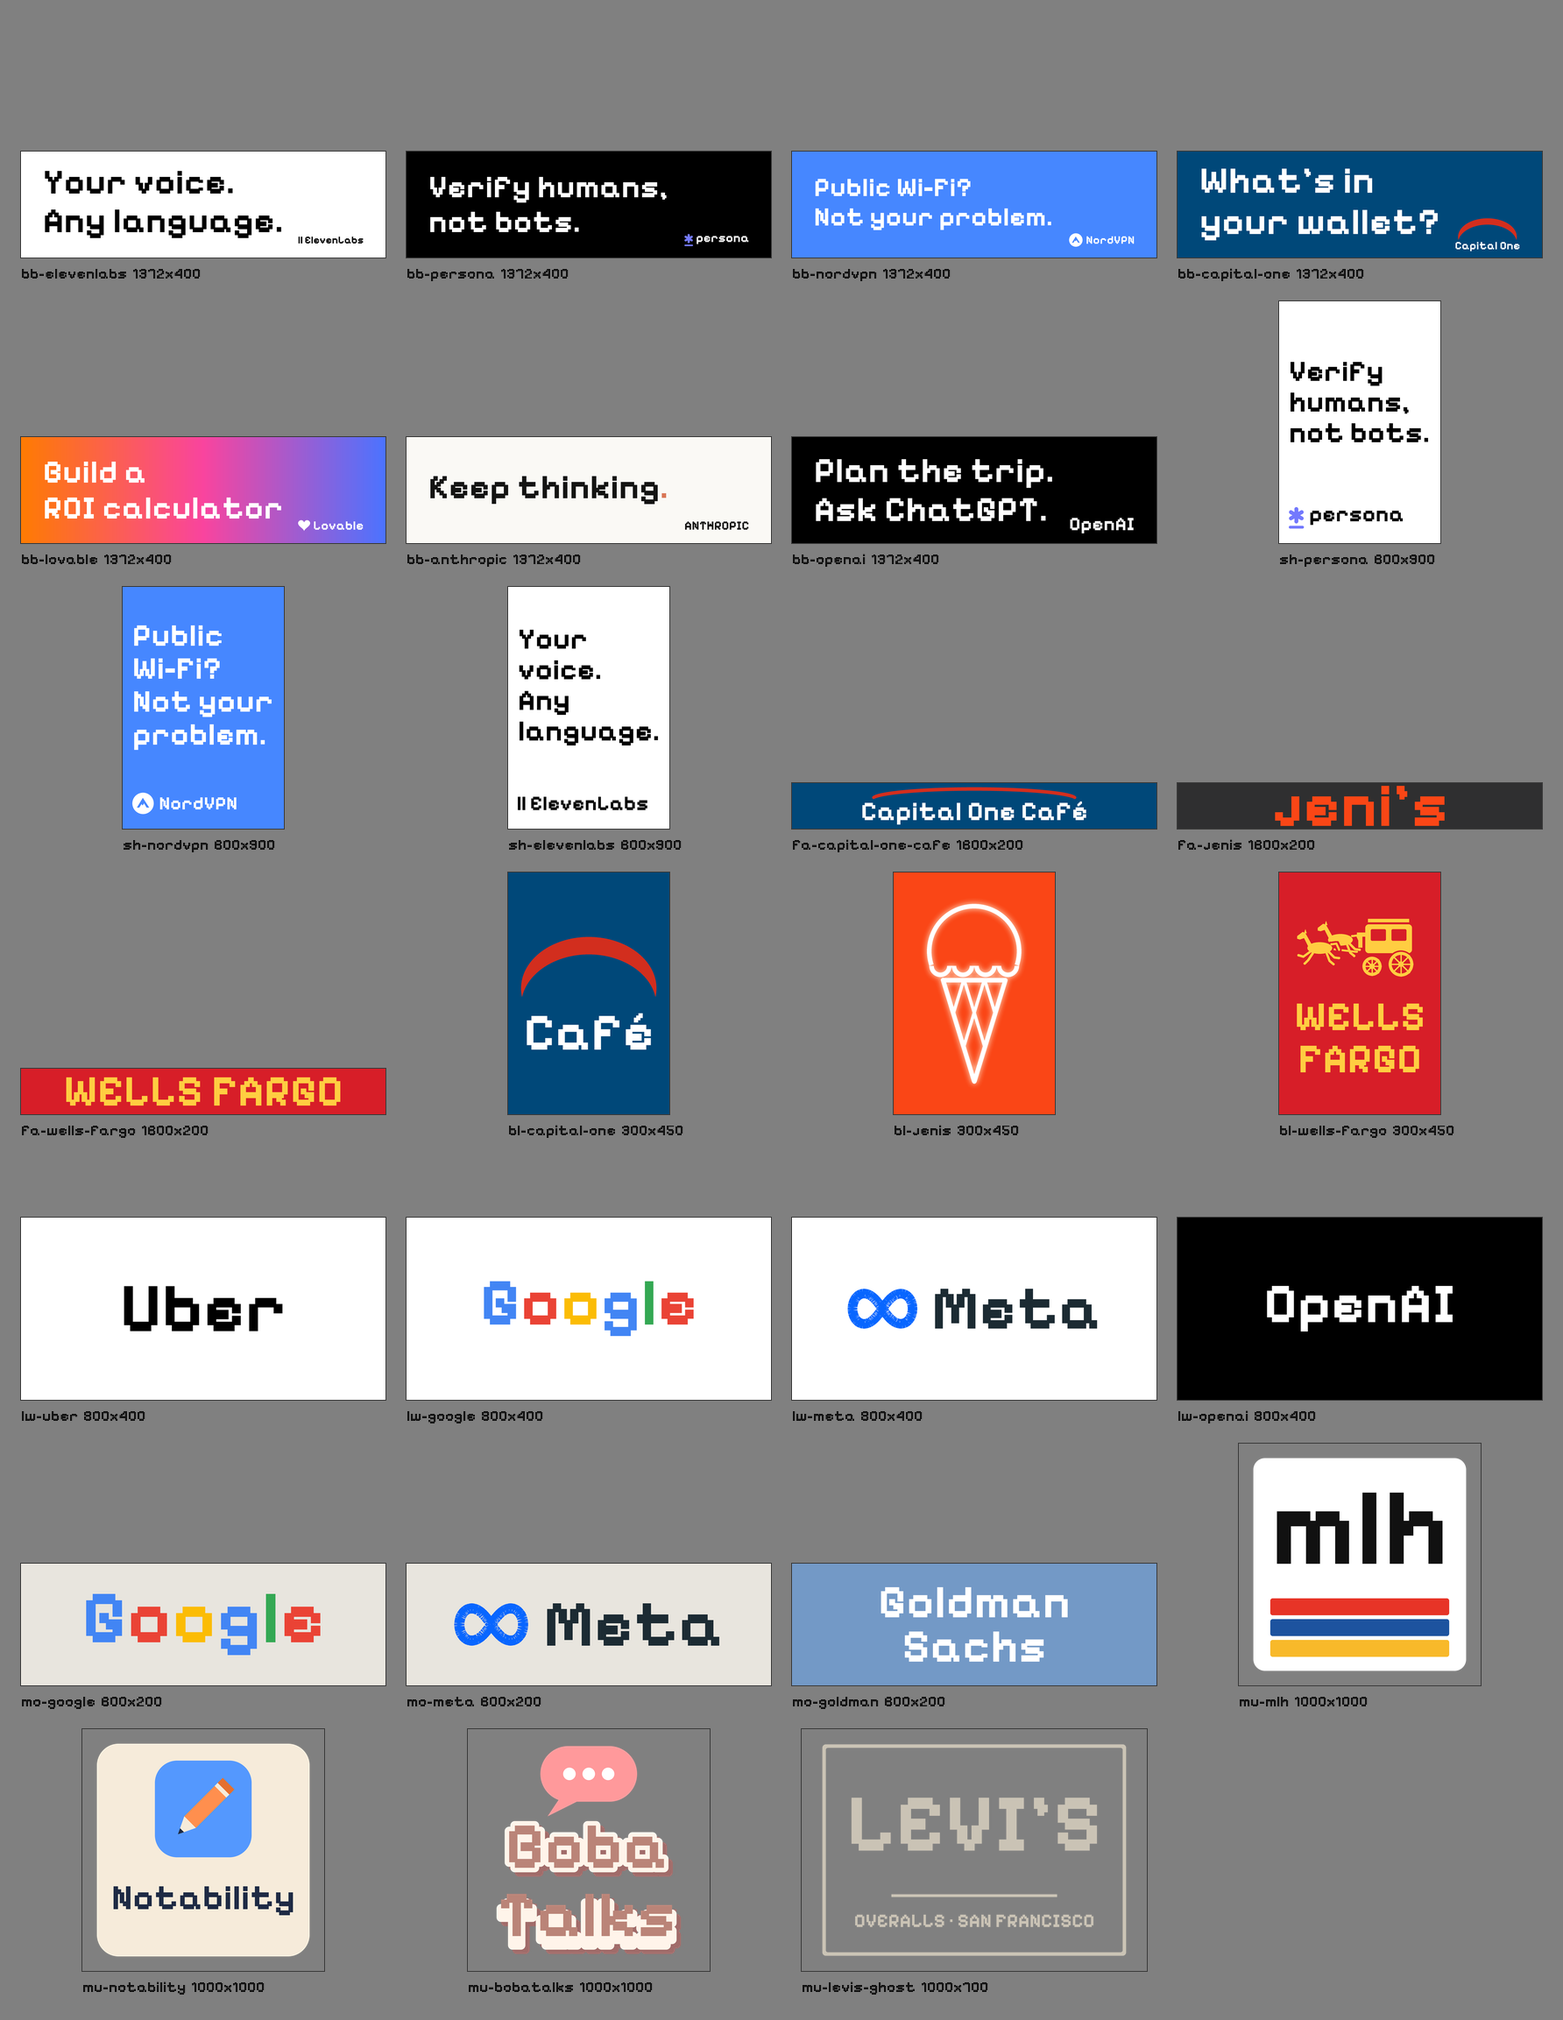
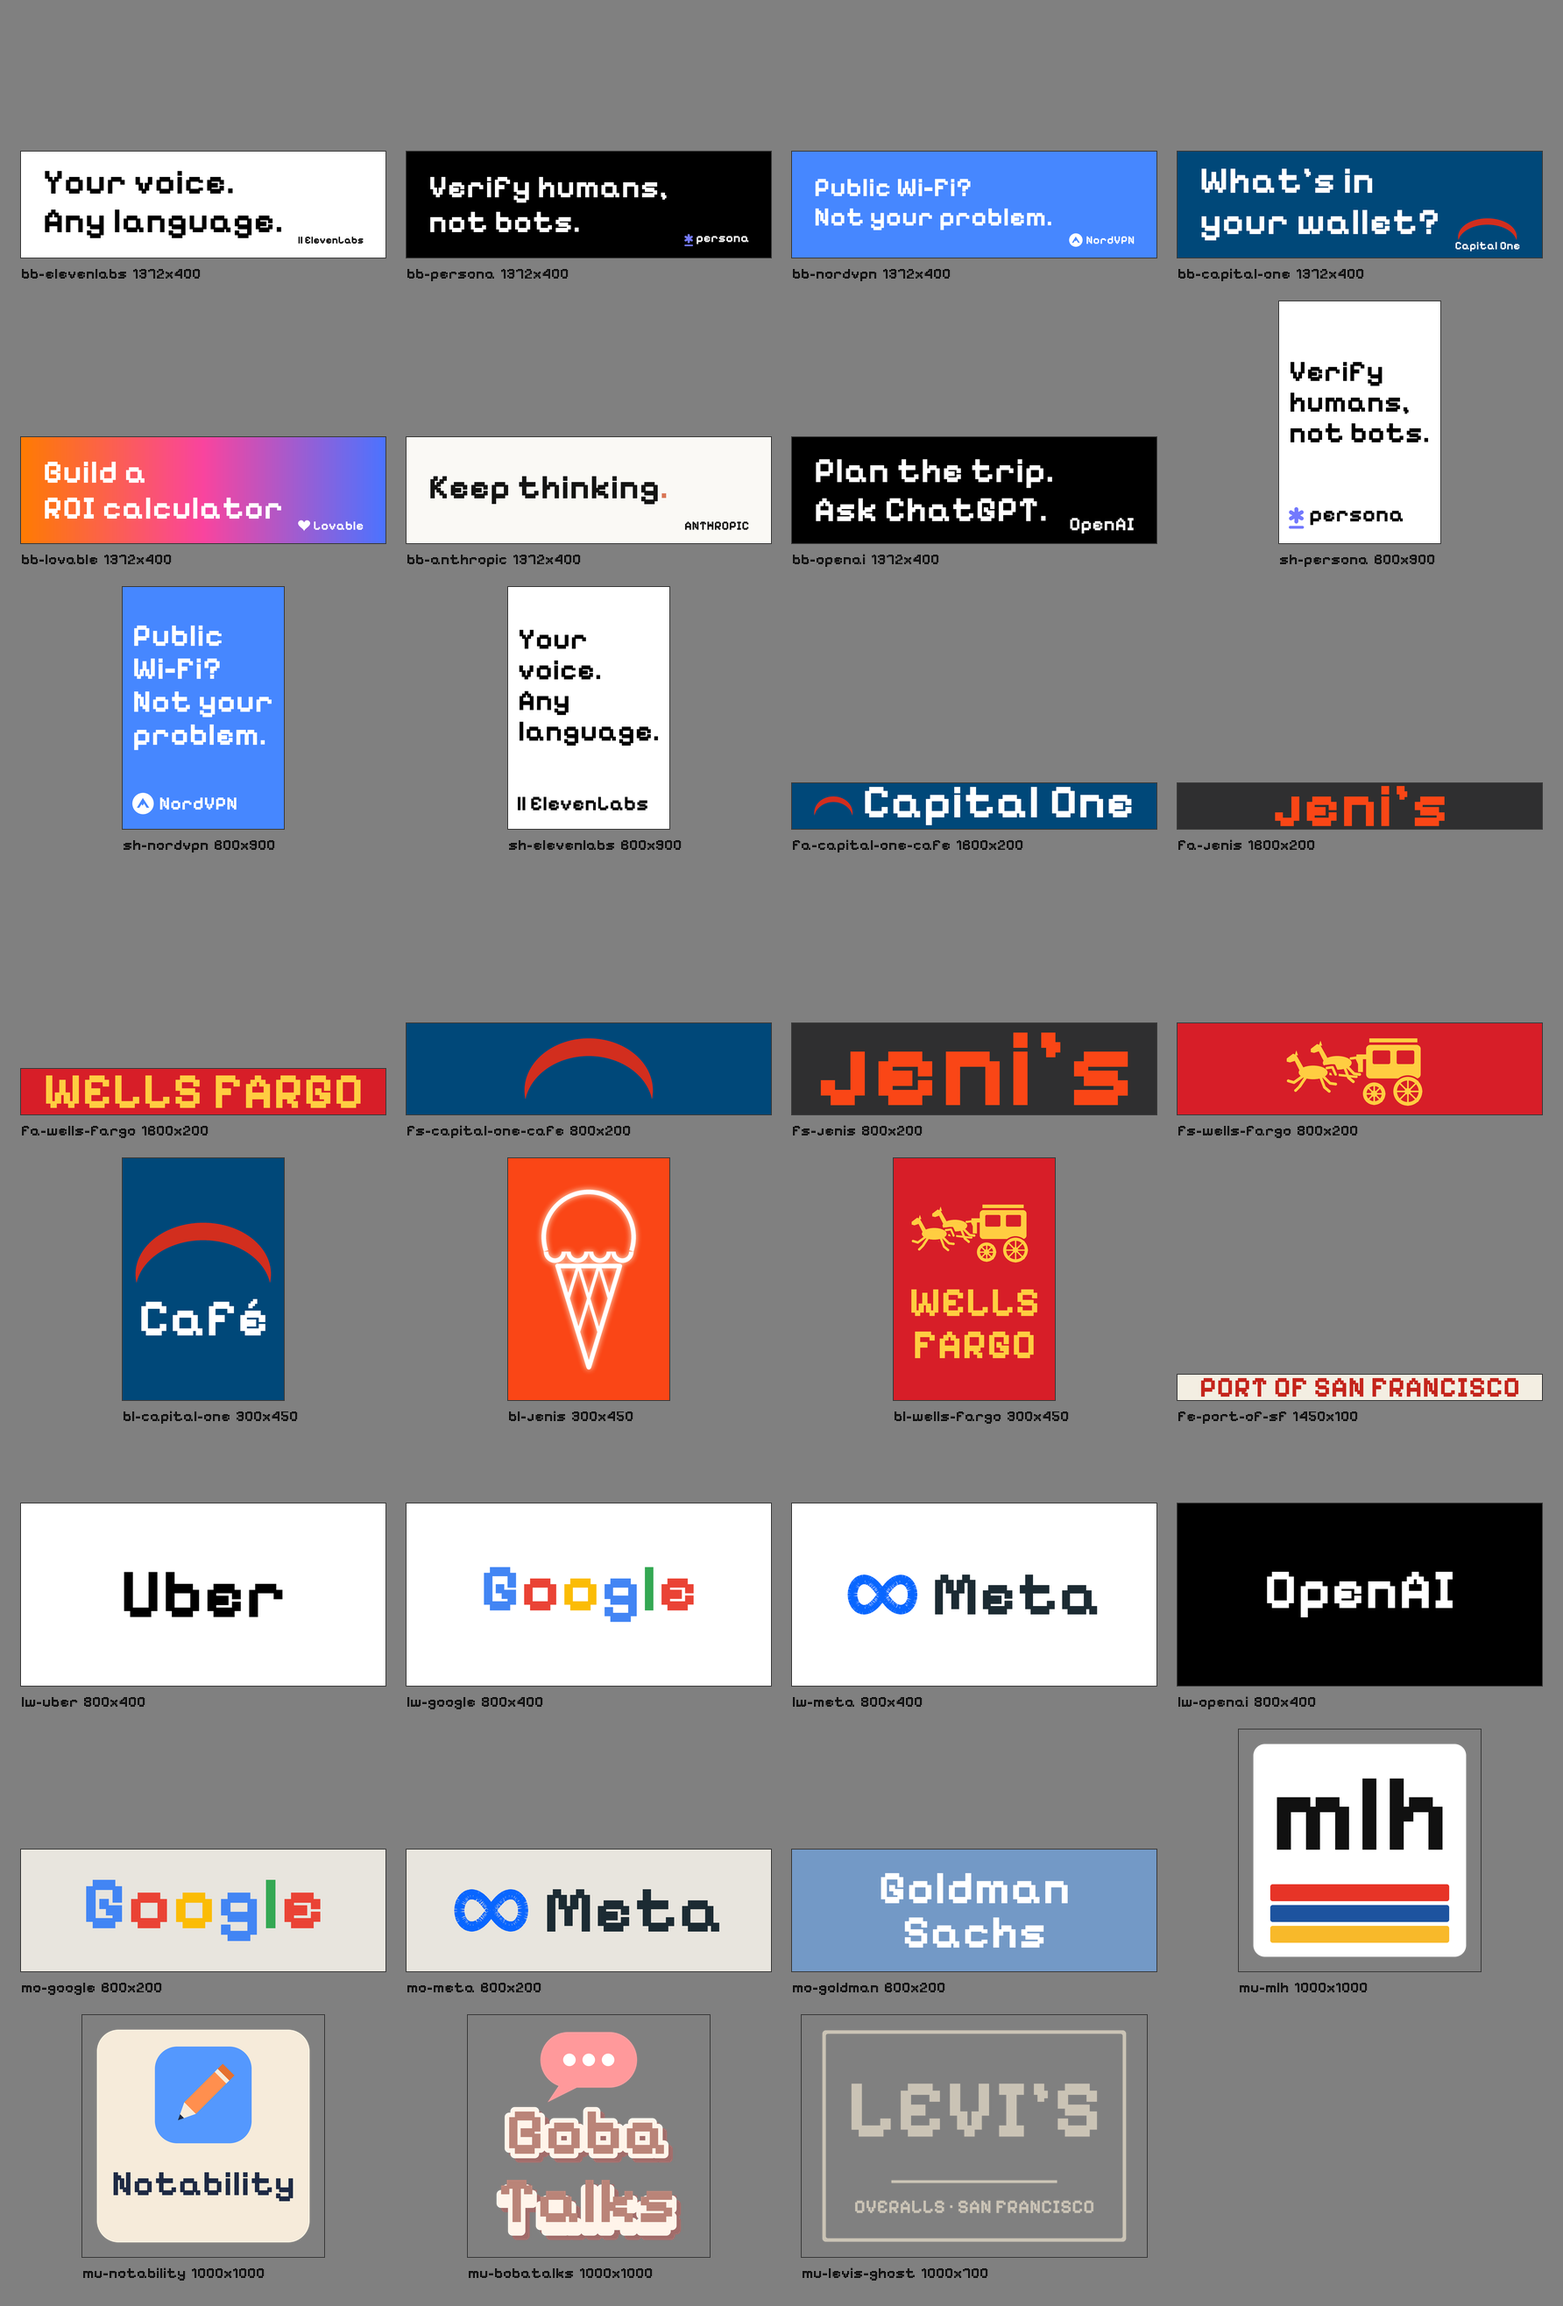
Sign art: storefront bands with full-height lettering, side bands with the brand mark, and the Ferry Building's frieze sign

diff --git a/game/art/make_ads.py b/game/art/make_ads.py
@@ -546,25 +546,51 @@ def bb_anthropic():
     s.finish()
 
 
-def fascia(name, bg, draw):
-    s = Sign(name, 1600, 200, bg)
+# Storefront sign bands are sized so their lettering reads at 1x (docs/superpowers/specs/2026-09-12-blender-houses-
+# design.md, "Look check"): the band is about 9 game px tall, so the lettering fills the whole safe height (6 to 7
+# px of capitals) instead of sharing it with a second line. The front band (fa-) spans a 2-tile facade at 8:1; the
+# side band (fs-) spans a 1-tile facade at 4:1 and carries the brand's mark, which reads where a name would not.
+def fascia(name, bg, draw, aspect=8):
+    s = Sign(name, 200 * aspect, 200, bg)
     draw(s, s.safe)
     s.finish()
 
 
 def fa_capital_one(s, safe):
     x0, y0, x1, y1 = safe
-    capital_one_lockup(s, (x0, y0 + 6, x1, y1 - 6), word="Capital One Café", align="center")
+    lockup(s, safe, lambda s_, b: swoosh(s_, b), 2.0, "Capital One", GEORGIA_BOLD, "white",
+           mark_h=0.5, text_h=1.0, gap=0.25, align="center")
 
 
 def fa_jenis(s, safe):
-    x0, y0, x1, y1 = safe
-    s.text("jeni's", SCRIPT, (x0, y0, x1, y1), "#FA4616", align="center")
+    s.text("jeni's", SCRIPT, safe, "#FA4616", align="center")
 
 
 def fa_wells(s, safe):
-    x0, y0, x1, y1 = safe
-    s.text("WELLS FARGO", GEORGIA_BOLD, (x0, y0 + 26, x1, y1 - 26), "#FFCD41", align="center")
+    s.text("WELLS FARGO", GEORGIA_BOLD, safe, "#FFCD41", align="center")
+
+
+def fs_capital_one(s, safe):
+    swoosh(s, inner(safe, 0.3, 0.12))
+
+
+def fs_jenis(s, safe):
+    s.text("jeni's", SCRIPT, safe, "#FA4616", align="center")
+
+
+def fs_wells(s, safe):
+    wells_stagecoach(s, inner(safe, 0.12, 0.0), "#FFCD41", "#D71E28")
+
+
+# The Ferry Building's name on its frieze: 10 game px tall with capitals about 7 px, across most of the 4-tile
+# front (about 3.7 tiles, so 14.5:1 in Blender units, which signs.panel keeps). Red on the building's cream trim.
+FERRY_SIGN_ASPECT = 14.5
+
+
+def fe_port_of_sf():
+    s = Sign("fe-port-of-sf", round(100 * FERRY_SIGN_ASPECT), 100, "#F3EEE2")
+    s.text("PORT OF SAN FRANCISCO", GEORGIA_BOLD, s.safe, "#C4251C", align="center", spacing=0.0)
+    s.finish()
 
 
 def bl_capital_one():
@@ -736,9 +762,15 @@ def main():
     fascia("fa-capital-one-cafe", "#004879", fa_capital_one)
     fascia("fa-jenis", "#2F2F30", fa_jenis)
     fascia("fa-wells-fargo", "#D71E28", fa_wells)
+    fascia("fs-capital-one-cafe", "#004879", fs_capital_one, aspect=4)
+    fascia("fs-jenis", "#2F2F30", fs_jenis, aspect=4)
+    fascia("fs-wells-fargo", "#D71E28", fs_wells, aspect=4)
     bl_capital_one()
     bl_jenis()
     bl_wells()
+
+    # landmark signs
+    fe_port_of_sf()
 
     # lobby logo walls
     centered("lw-uber", 800, 400, "white",
